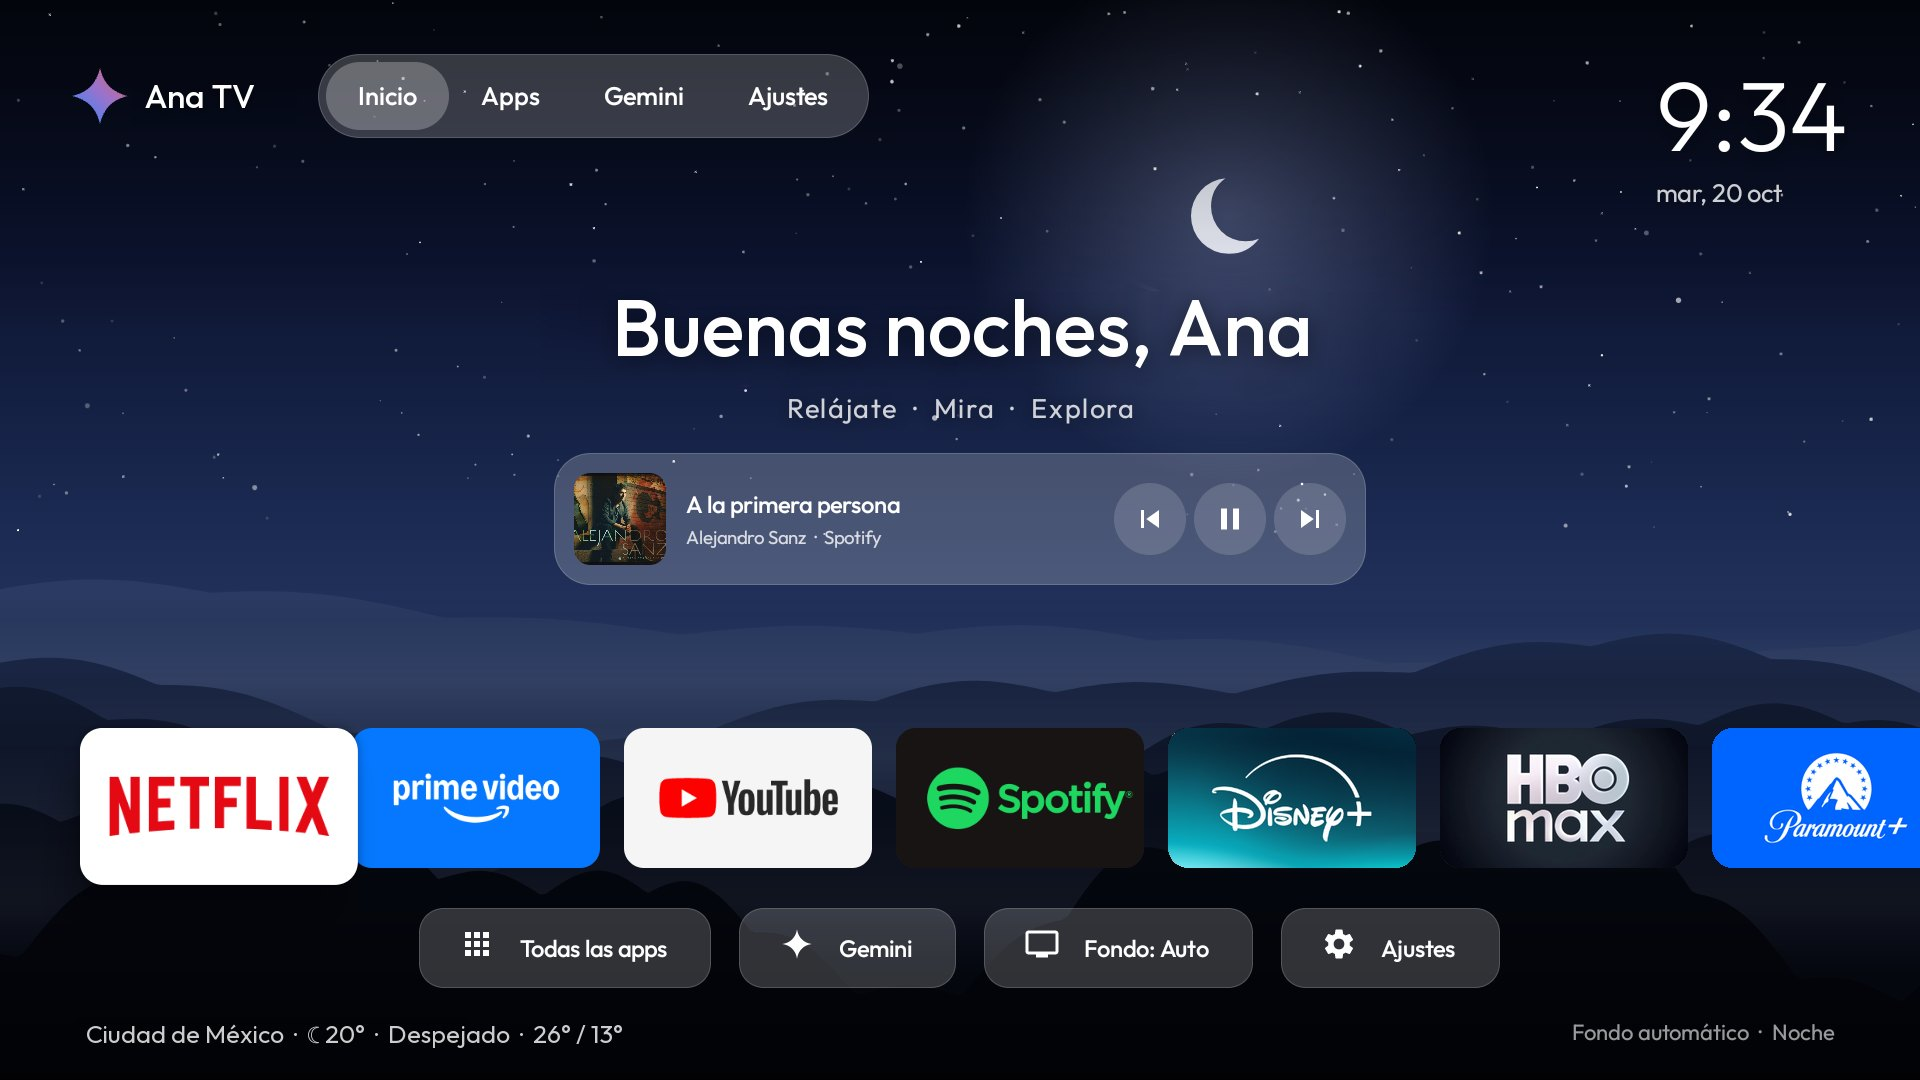
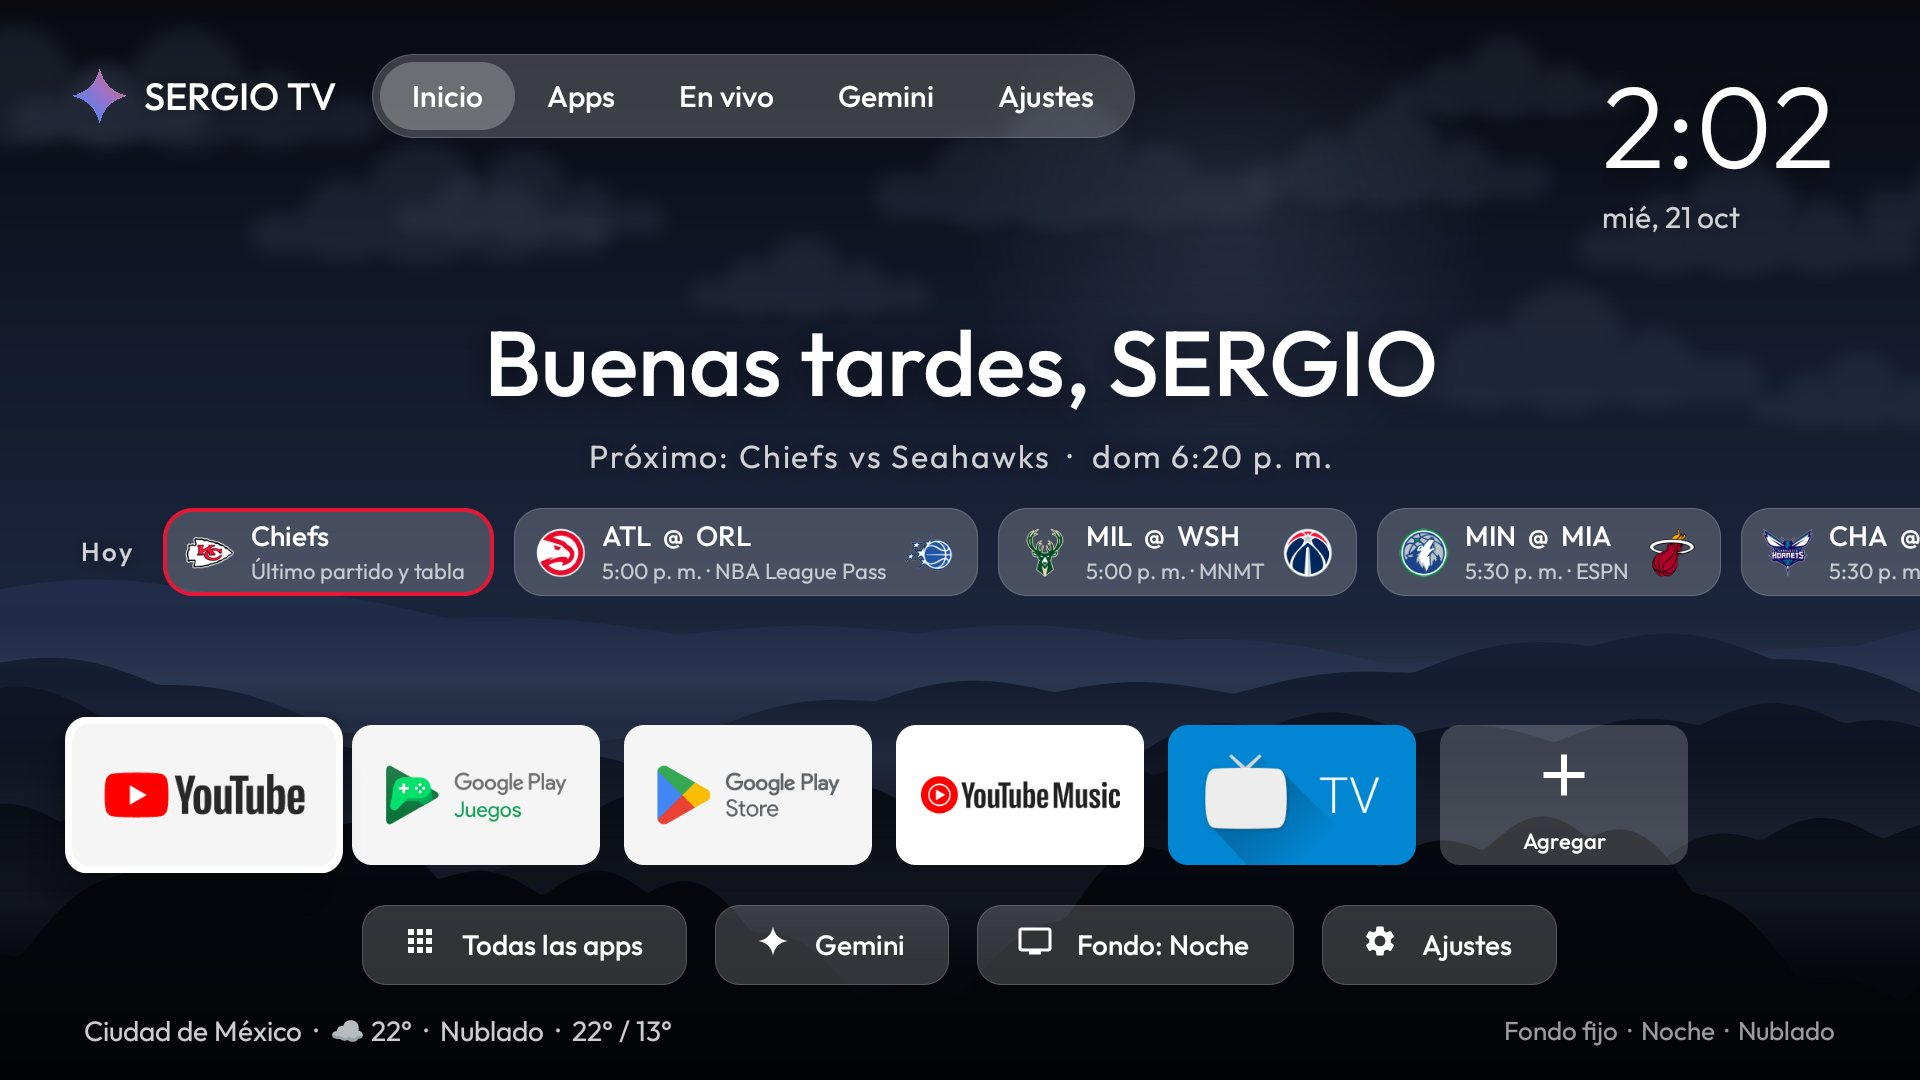
README con capturas nuevas y cómo instalar desde el APK; panel del partido con el marcador por cuarto sin cortes

diff --git a/app/src/main/java/com/xeleo/tv/GameActivity.java b/app/src/main/java/com/xeleo/tv/GameActivity.java
@@ -172,7 +172,7 @@ public class GameActivity extends Activity {
         top.setGravity(Gravity.CENTER);
         content.addView(top, new LinearLayout.LayoutParams(-1, -2));
 
-        content.addView(header(g), new LinearLayout.LayoutParams(-1, dp(144)));
+        content.addView(header(g), new LinearLayout.LayoutParams(-1, dp(146)));
         content.addView(divider(), new LinearLayout.LayoutParams(-1, 1));
 
         LinearLayout body = new LinearLayout(this);
@@ -257,7 +257,7 @@ public class GameActivity extends Activity {
     private View lines(GameStats g) {
         LinearLayout box = new LinearLayout(this);
         box.setOrientation(LinearLayout.VERTICAL);
-        box.setPadding(0, dp(8), 0, 0);
+        box.setPadding(0, dp(5), 0, 0);
         int n = g.periodHeads.length;
         int cell = n > 6 ? dp(17) : dp(26);
         for (int r = 0; r < 3; r++) {
@@ -277,7 +277,7 @@ public class GameActivity extends Activity {
                 LinearLayout.LayoutParams lp = new LinearLayout.LayoutParams(total ? dp(34) : cell, -2);
                 row.addView(c, lp);
             }
-            row.setPadding(0, dp(r == 0 ? 0 : 3), dp(34), 0);
+            row.setPadding(0, dp(r == 0 ? 0 : 2), dp(34), 0);
             box.addView(row);
         }
         return box;

diff --git a/README.md b/README.md
@@ -4,57 +4,107 @@ Pantalla de inicio para el **onn 4K Streaming Box** (Google TV), sin anuncios ni
 aparece es lo que tú instalaste. Hecha y probada en un onn 4K con Google TV 14; debería funcionar en otros
 aparatos con Google TV o Android TV, pero no se ha probado en ellos.
 
-![Inicio de noche, con una estrella fugaz cruzando el cielo](docs/screenshots/inicio-noche.jpg)
+![Inicio de día con la fila Hoy de partidos y las apps](docs/screenshots/inicio-dia.jpg)
 
-| De día, con nubes y pájaros | Protector de pantalla |
+| De noche | Día de partido de tu equipo |
 |---|---|
-| ![Inicio de día con nubes y una parvada de pájaros](docs/screenshots/inicio-dia.jpg) | ![Protector de pantalla con reloj, clima y canción](docs/screenshots/protector.jpg) |
+| ![Inicio de noche con el cielo nocturno](docs/screenshots/inicio-noche.jpg) | ![Inicio el día que juega Santos: logo, rival, hora y cuenta regresiva](docs/screenshots/dia-de-partido.jpg) |
 
-<p align="center">
-  <img src="docs/screenshots/menu-rapido.jpg" width="300" alt="Menú rápido con reproductor, temporizador y Reiniciar">
-</p>
+| Panel del partido | En vivo |
+|---|---|
+| ![Panel del partido: marcador por cuarto, líderes, comparativa y tabla de la división](docs/screenshots/panel-partido.jpg) | ![Pestaña En vivo con la guía de Pluto TV y la vista previa del canal](docs/screenshots/en-vivo.jpg) |
+
+| Menú rápido | Todas las apps |
+|---|---|
+| ![Menú rápido con Deportes y En vivo](docs/screenshots/menu-rapido.jpg) | ![Todas las apps, con palomita en las que están en el inicio](docs/screenshots/todas-las-apps.jpg) |
+
+| Aviso sobre otra app | Protector de pantalla |
+|---|---|
+| ![Aviso de anotación de los Chiefs encima de otra app](docs/screenshots/aviso.jpg) | ![Protector de pantalla con reloj, clima y canción](docs/screenshots/protector.jpg) |
 
 ## Qué trae
+
+### El inicio
 
 - **Paisaje que sigue la hora:** amanecer, día, atardecer y noche, calculados con la salida y puesta del sol de tu
   ciudad. Si llueve, nieva, hay tormenta o neblina, el paisaje lo muestra (con lluvia y relámpagos animados).
 - **Cielo vivo:** de noche las estrellas titilan y se desplazan despacio, con alguna estrella fugaz o un cometa de
   vez en cuando; de día pasan nubes y parvadas de pájaros. Se pausa en cuanto abres una app.
 - **Clima** de tu ciudad en la línea de abajo (Open-Meteo, sin clave).
-- **Saludo y nombre de la tele** ("Buenas noches, Ana" · "Ana TV"), editables desde la tele.
-- **Recientes:** botones con las últimas apps que abriste, vengan del inicio, del control o de Gemini.
-- **Fila de apps** solo con las que tú eliges (al principio, las primeras 6); las demás quedan en Todas las apps.
-  Deja presionado OK sobre una app del inicio para moverla con ◀ ▶ o quitarla con ▼. En Todas las apps, deja
-  presionado OK para ponerla o quitarla del inicio; el botón **Agregar** al final de la fila lleva ahí.
+- **Saludo y nombre de la tele** ("Buenas tardes, Sergio" · "Sergio TV"), editables desde la tele.
+- **Tus apps, solo las que eliges:** al principio salen las primeras 6; las demás quedan en Todas las apps.
+  - En el inicio, deja presionado OK sobre una app para moverla con ◀ ▶, o quitarla con ▼.
+  - En Todas las apps, deja presionado OK para ponerla o quitarla del inicio (las del inicio llevan ✓).
+  - El botón **Agregar**, al final de la fila, lleva a Todas las apps.
+- **Recientes:** las últimas apps que abriste, vengan del inicio, del control o de Gemini.
 - **Reproductor:** lo que suena en Spotify, YouTube, etc., con anterior / pausa / siguiente, en el inicio y en el
   menú rápido.
+
+### Menú rápido y protector
+
 - **Menú rápido** al estilo Google TV (botón Ajustes o dejar presionado Inicio): protector de pantalla, Wi‑Fi,
-  imagen, Bluetooth, sonido, accesibilidad, **temporizador para dormir** (15/30/60/90 min), apps, Personalizar y
-  **Reiniciar**.
+  imagen, Bluetooth, sonido, accesibilidad, **temporizador para dormir** (15/30/60/90 min), apps, Deportes,
+  En vivo, Personalizar y **Reiniciar**.
 - **Protector de pantalla** a juego: paisaje, reloj grande que se mueve poco a poco, clima y la canción.
-- **Modo Sports** (menú rápido → Deportes): una fila "Hoy" con los partidos del día de las ligas que elijas
-  (NFL, Liga MX, selecciones, NBA, MLB) con marcador en vivo. El día que juega tu equipo, el inicio se pinta con
-  sus colores, muestra su logo, la hora, el canal y la cuenta regresiva, y festeja si gana. Avisos opcionales
-  sobre cualquier app al empezar, al anotar y al terminar (se pueden apagar si ves el partido con retraso).
-  Datos de ESPN (servicio público sin clave, no oficial: puede cambiar).
-- **En vivo** (menú rápido → En vivo, apagado de fábrica): una pestaña con los canales gratis de Pluto TV en filas
-  (Destacados, Noticias, Deportes, Películas…) y arriba una vista previa del que tengas seleccionado: imagen,
-  programa, descripción y cuánto falta. OK abre el canal en la app de Pluto TV (si no está instalada, la abre en
-  Play Store). XELEO solo muestra la guía; el video lo pone Pluto. Guía de Pluto TV (pública, sin clave, no
-  oficial: puede cambiar).
+
+### Modo Sports (menú rápido → Deportes, apagado de fábrica)
+
+- **Fila "Hoy"** con los partidos del día de las ligas que elijas (NFL, Liga MX, selecciones, NBA, MLB), con
+  marcador en vivo.
+- **Tu equipo:** el día que juega, el inicio se pinta con sus colores y muestra su logo, el rival, la hora, el
+  canal y la cuenta regresiva; si gana, festeja. Los demás días, su botón abre su último partido y la tabla.
+- **Panel del partido:** OK sobre un partido de "Hoy" abre marcador por periodo, líderes, comparativa de
+  equipos, la tabla de su grupo y el próximo partido. ◀ ▶ pasan a los otros partidos; mientras se juega se
+  actualiza cada 30 s. Si el partido va por una app de la tele (Prime Video, Disney+…), trae el botón para verlo.
+- **Avisos** encima de cualquier app al empezar, al anotar y al terminar. Se pueden apagar, por si ves el partido
+  con retraso y no quieres enterarte antes.
+- Datos de ESPN (servicio público sin clave, no oficial: puede cambiar).
+
+### En vivo (menú rápido → En vivo, apagado de fábrica)
+
+- Una pestaña con los **canales gratis de Pluto TV** en filas: Destacados (TV abierta mexicana, noticias,
+  NFL Channel…), Noticias, Deportes, Películas, Series, Novelas y más.
+- Arriba, una **vista previa** del canal seleccionado: imagen, programa, descripción y cuánto falta.
+- OK abre el canal en la app **Pluto TV** (instálala desde Play Store; si no está, XELEO te lleva ahí). XELEO
+  solo muestra la guía, el video lo pone Pluto. La guía se precarga desde el inicio, así que la pestaña abre
+  al instante.
+- Guía de Pluto TV (pública, sin clave, no oficial: puede cambiar).
 
 ## Instalar
 
-En la tele: Ajustes → Sistema → Acerca de → presiona 7 veces *Compilación del SO*; luego Opciones de desarrollador →
-**Depuración USB** activada. En la computadora (Git Bash en Windows), con JDK 17 y el SDK de Android:
+Primero, en la tele: Ajustes → Sistema → Acerca de → presiona 7 veces *Compilación del SO*; luego Opciones de
+desarrollador → **Depuración USB** activada. Busca la IP de la tele en Ajustes → Red e Internet → tu red.
+
+### Con un APK ya hecho
+
+Si alguien te pasó `XELEO-TV.apk`, con [adb](https://developer.android.com/tools/releases/platform-tools)
+(cambia la IP por la de tu tele; la tele pregunta "¿Permitir depuración USB?": acepta). Se instala con
+`pm install` porque en Android 14 `adb install` se queda esperando una confirmación en pantalla; en Git Bash de
+Windows, corre antes `export MSYS_NO_PATHCONV=1`.
+
+```bash
+adb connect 192.168.1.50:5555
+adb push XELEO-TV.apk /data/local/tmp/xeleo.apk
+adb shell pm install -r /data/local/tmp/xeleo.apk
+adb shell cmd package set-home-activity --user 0 com.xeleo.tv/.HomeActivity
+adb shell settings put secure enabled_accessibility_services com.xeleo.tv/.XeleoService
+adb shell settings put secure accessibility_enabled 1
+adb shell cmd notification allow_listener com.xeleo.tv/com.xeleo.tv.MediaListener
+adb shell settings put secure screensaver_components com.xeleo.tv/com.xeleo.tv.SceneryDream
+adb shell pm grant com.xeleo.tv android.permission.ACCESS_FINE_LOCATION
+```
+
+### Compilándolo tú
+
+En la computadora (Git Bash en Windows), con JDK 17 y el SDK de Android:
 
 ```bash
 ./install.sh 192.168.1.50
 ```
 
-Usa la IP de tu onn (Ajustes → Red e Internet → tu red). La tele pregunta "¿Permitir depuración USB?": acepta.
-El script compila, instala y deja XELEO TV como inicio, protector de pantalla y servicio del control. Al
-terminar, apaga otra vez la Depuración USB.
+El script compila, instala y deja XELEO TV como inicio, protector de pantalla y servicio del control.
+
+### En los dos casos
 
 En Google TV conviene desactivar también el inicio de Google, o se queda con el botón Inicio:
 
@@ -66,11 +116,14 @@ adb shell pm disable-user --user 0 com.google.android.tungsten.setupwraith
 (`pm enable` con los mismos nombres los regresa.) Antes de desactivar `setupwraith`, revisa que tu red Wi‑Fi no
 sea suya (`adb shell dumpsys wifi | grep -o 'cname=[^ ]*'`): si lo es, olvida la red y vuelve a conectarte.
 
+Al terminar, apaga otra vez la Depuración USB. Luego, en el menú rápido: **Personalizar** (nombre y ciudad del
+clima), **Deportes** (ligas y tu equipo) y **En vivo**, si los quieres.
+
 ## Cambiar cosas
 
 - **Nombre, saludo y ciudad del clima:** en la tele, menú rápido → Personalizar. De fábrica no hay nombre
   ("Mi TV") y el clima es de Ciudad de México.
-- **Apps favoritas por defecto:** `dock_apps` en `app/src/main/res/values/config.xml`.
+- **Apps del inicio por defecto:** `dock_apps` en `app/src/main/res/values/config.xml` (van primero la primera vez).
 - **Probar otro clima en el paisaje** (para ver cómo se ve):
   `adb shell am broadcast -n com.xeleo.tv/.ControlReceiver -a com.xeleo.tv.WEATHER_PREVIEW --ei code 61`
   (61 lluvia, 95 tormenta, 45 neblina, 71 nieve, 2 nubes, -1 el clima real).
@@ -79,11 +132,13 @@ sea suya (`adb shell dumpsys wifi | grep -o 'cname=[^ ]*'`): si lo es, olvida la
 
 ## Notas
 
-- Java puro, sin librerías. `minSdk 26`, `targetSdk 34`.
+- Java puro, sin librerías. `minSdk 26`, `targetSdk 34`. El APK pesa unos 150 KB.
 - La app necesita acceso a notificaciones (solo para saber qué se está reproduciendo) y un servicio de
-  accesibilidad (botón Inicio largo, temporizador, reinicio y recientes); `install.sh` los activa.
+  accesibilidad (botón Inicio largo, temporizador, reinicio, recientes y avisos de partidos); `install.sh` los
+  activa.
 - Fuente: [Outfit](https://github.com/Outfitio/Outfit-Fonts), licencia SIL OFL 1.1 (`docs/licencias/OFL-Outfit.txt`).
-  Íconos: Material Icons de Google (Apache 2.0).
+  Íconos: Material Icons de Google (Apache 2.0). Logos de equipos y canales: de ESPN y Pluto TV, se descargan al
+  usarse y no vienen en el repo.
 
 ## Licencia
 
